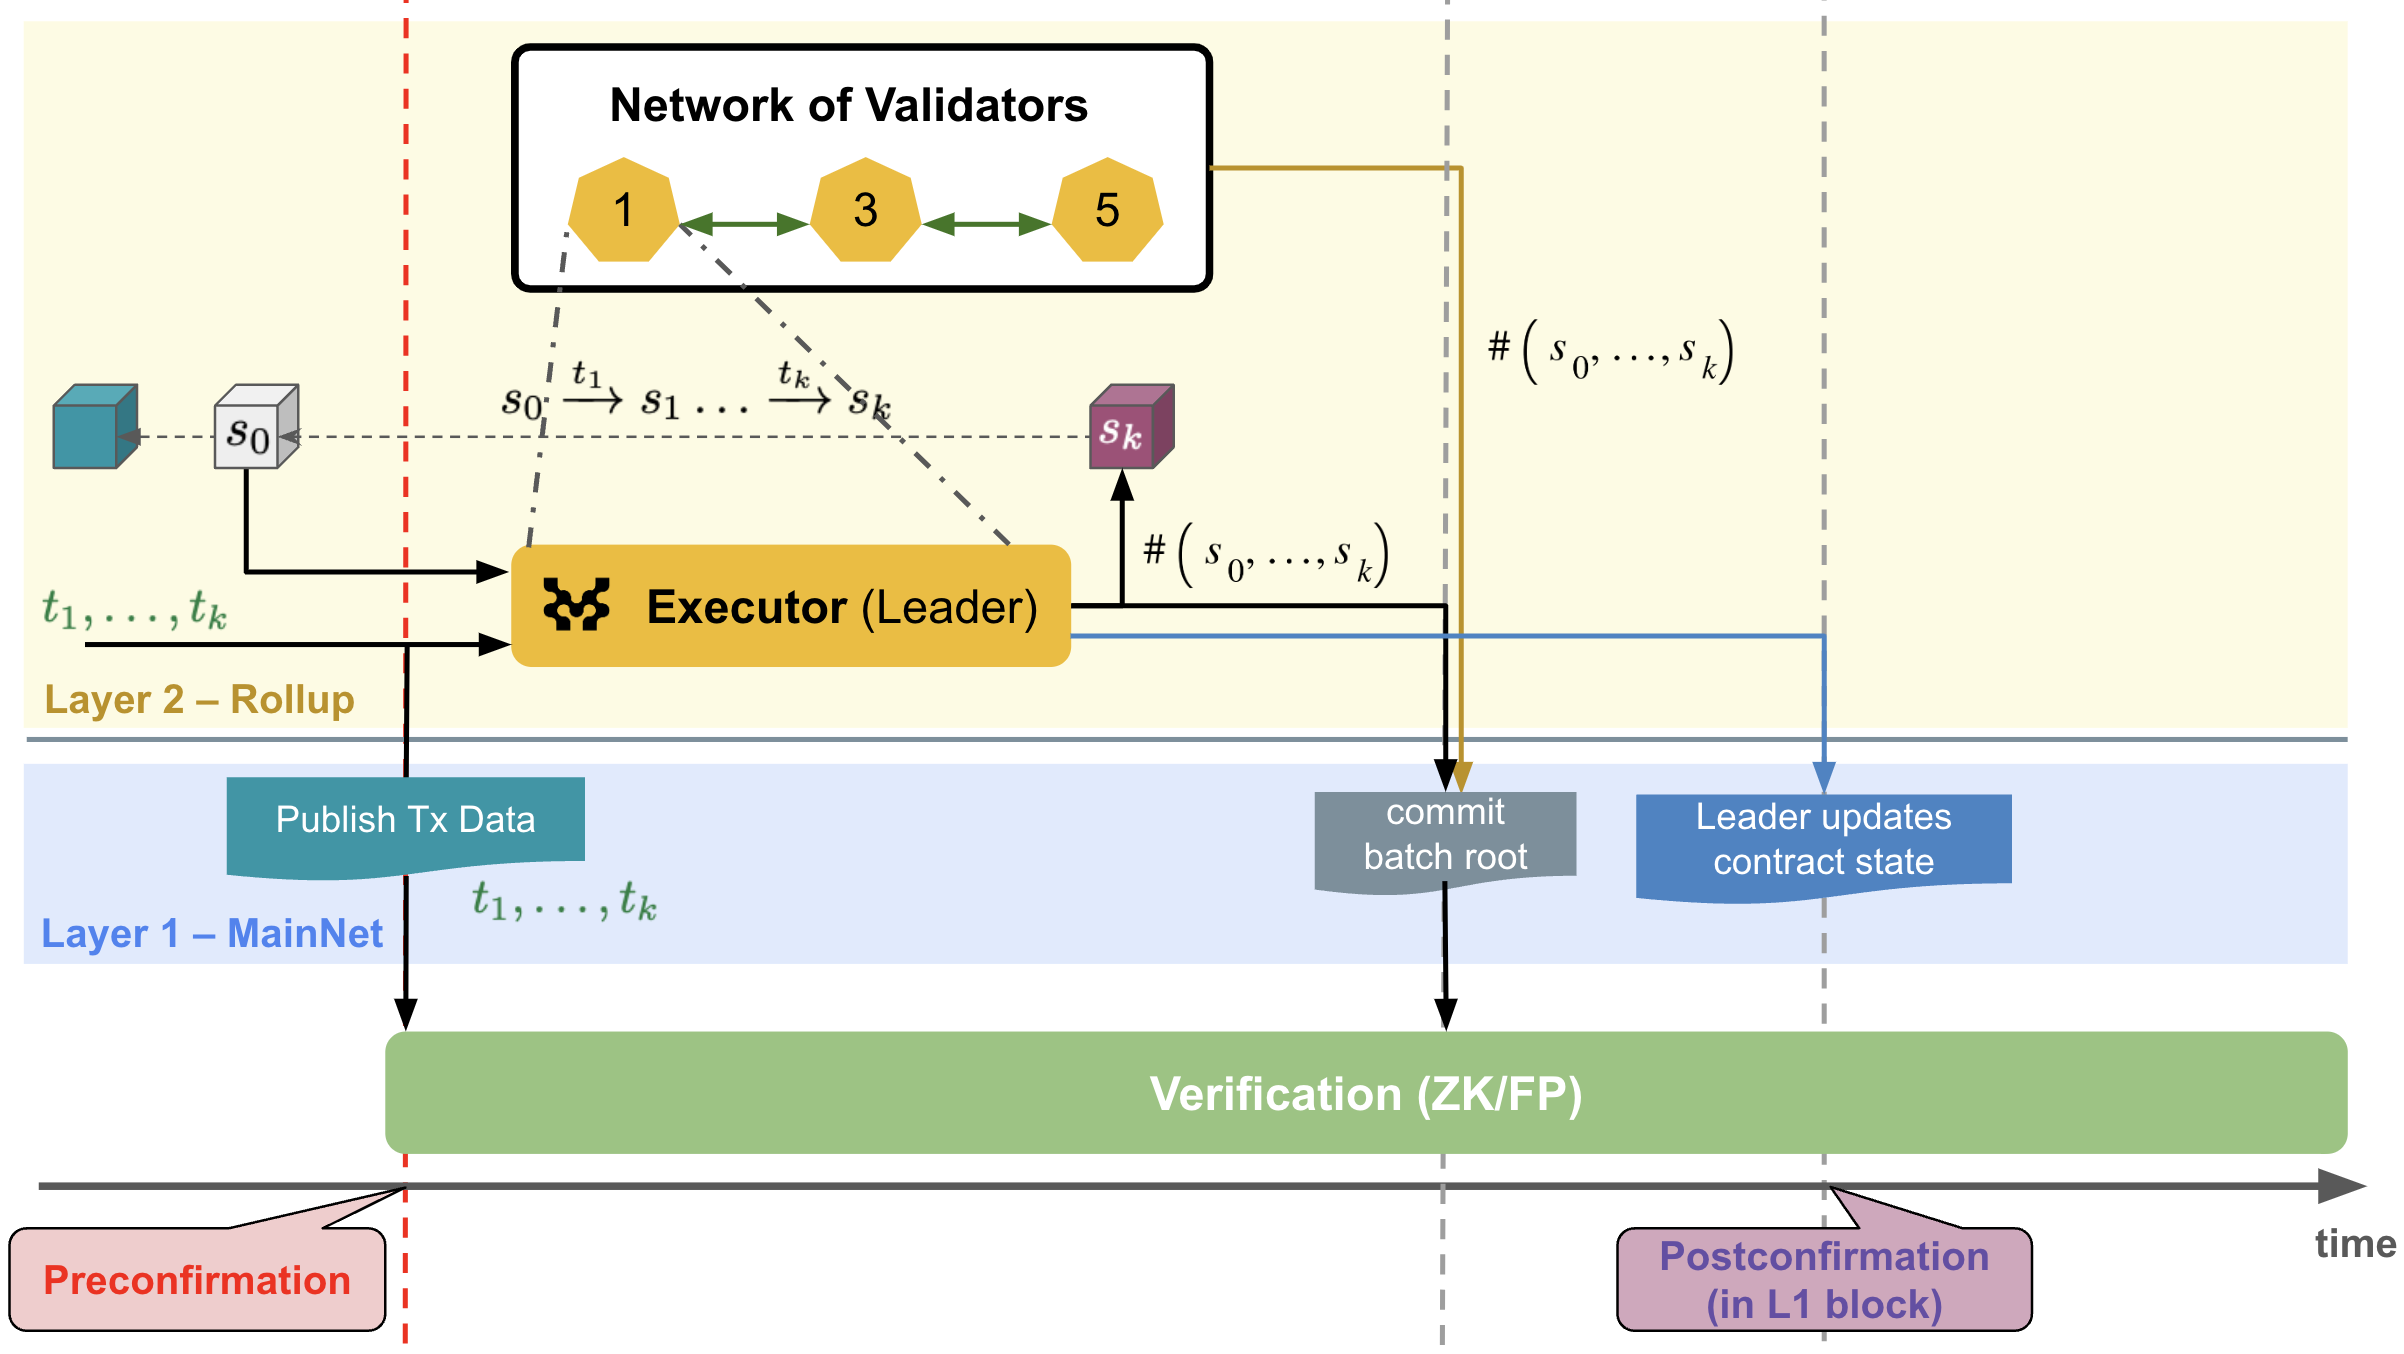
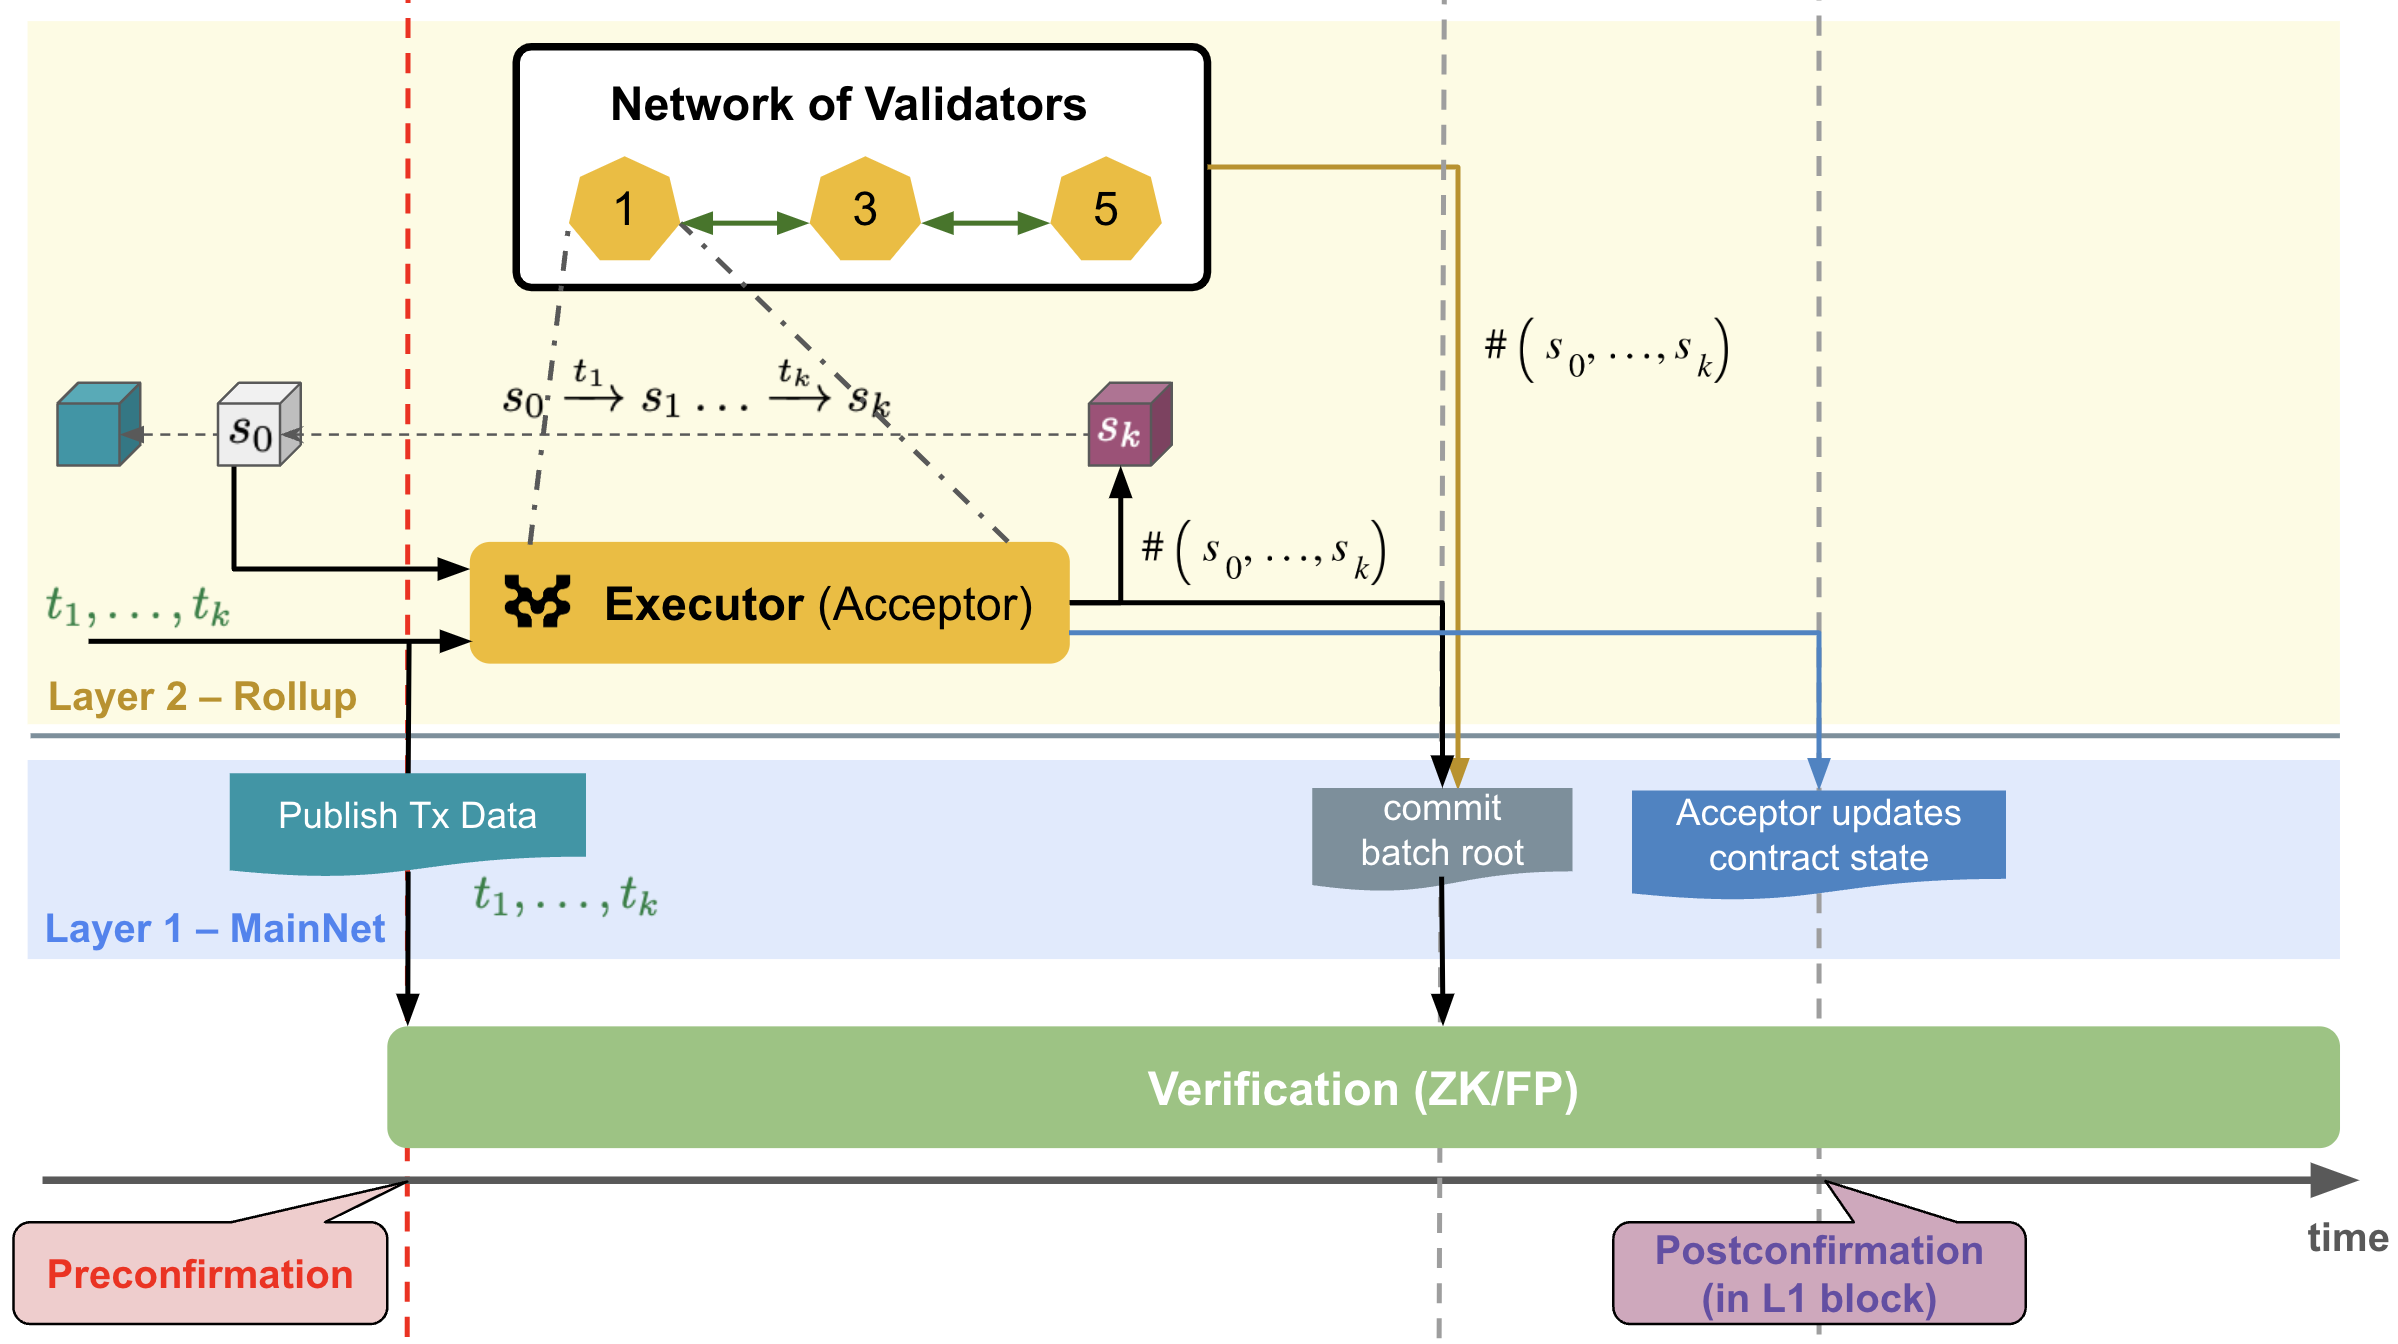
update figure

diff --git a/MIP/mip-draft-postconfirmation/README.md b/MIP/mip-draft-postconfirmation/README.md
@@ -139,7 +139,7 @@ function getCurrentAcceptor() public view returns (address) {
   bytes32 blockHash = blockhash(relevantL1BlockHeight);
   address[] memory attesters = getAttesters();
   // map the blockhash to the attesters
-  uint256 leaderIndex = uint256(blockHash) % attesters.length;
+  uint256 acceptorIndex = uint256(blockHash) % attesters.length;
   return attesters[acceptorIndex];        
 }
 ```
@@ -153,7 +153,7 @@ function getCurrentAcceptor() public view returns (address) {
 **Liveness**. In order to guarantee liveness the protocol ensures that anyone can voluntarily provide the service of the accepter. However, no reward is being issued for this service.
 
 ![Version A Diagram](postconfirmation.png)
-*Figure 1: Leader-independent block generation process in Version B.*
+*Figure 1: Leader-independent (deterministic) block generation process.*
 
 
 
